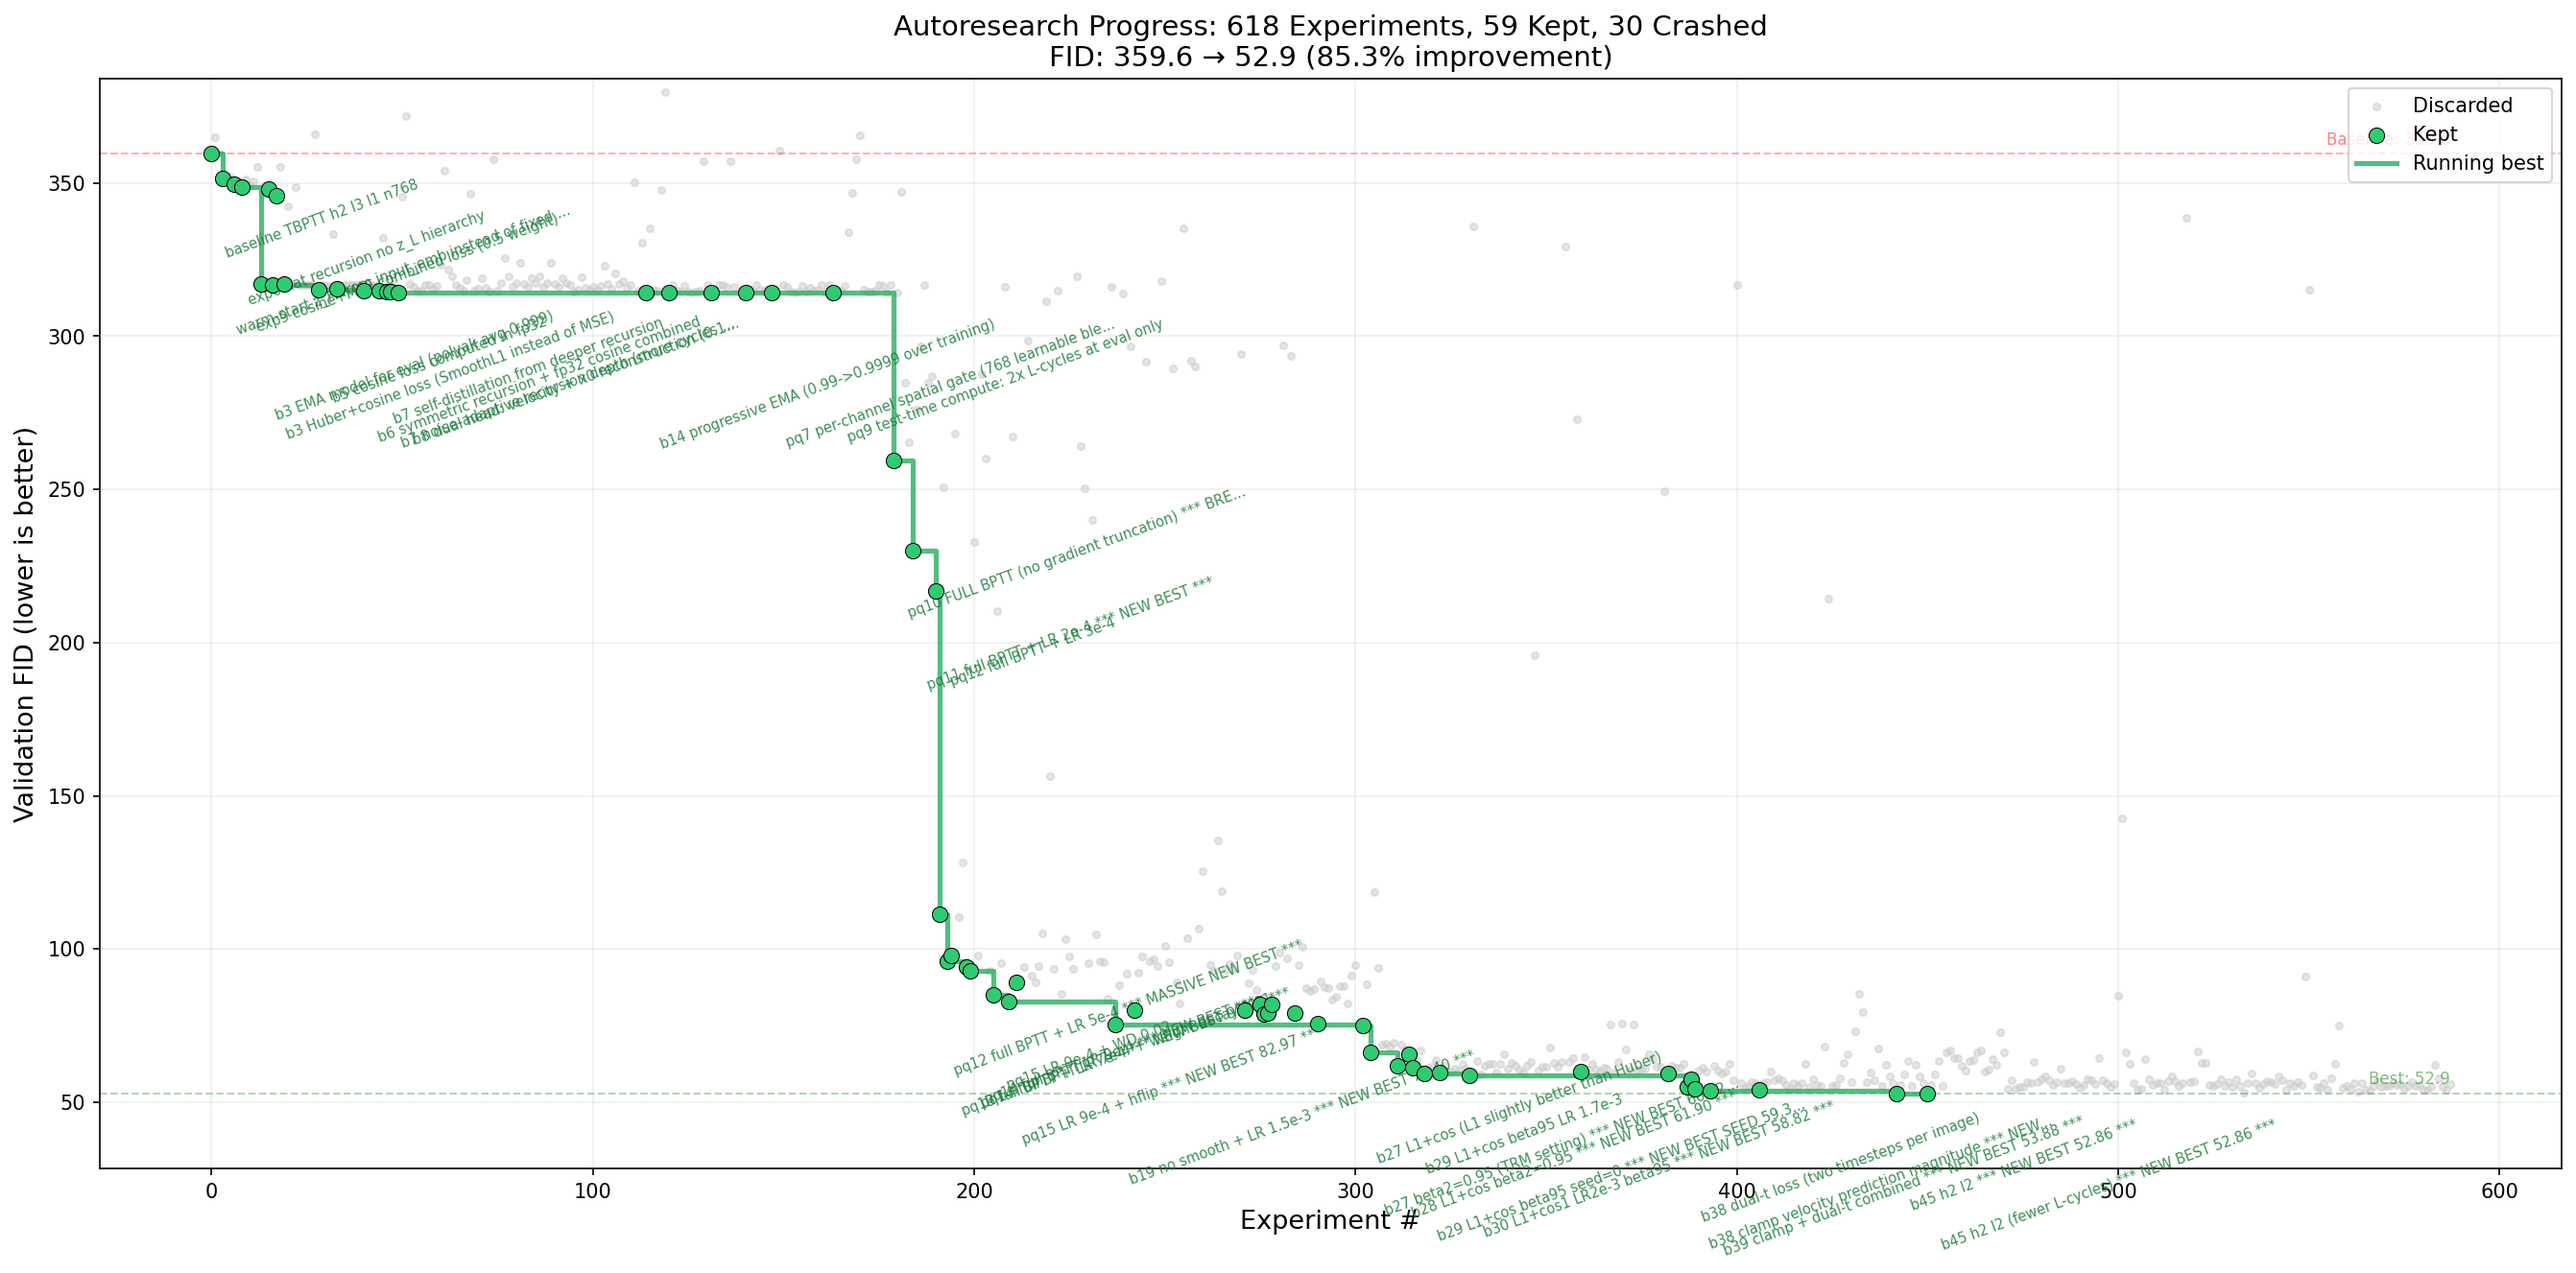
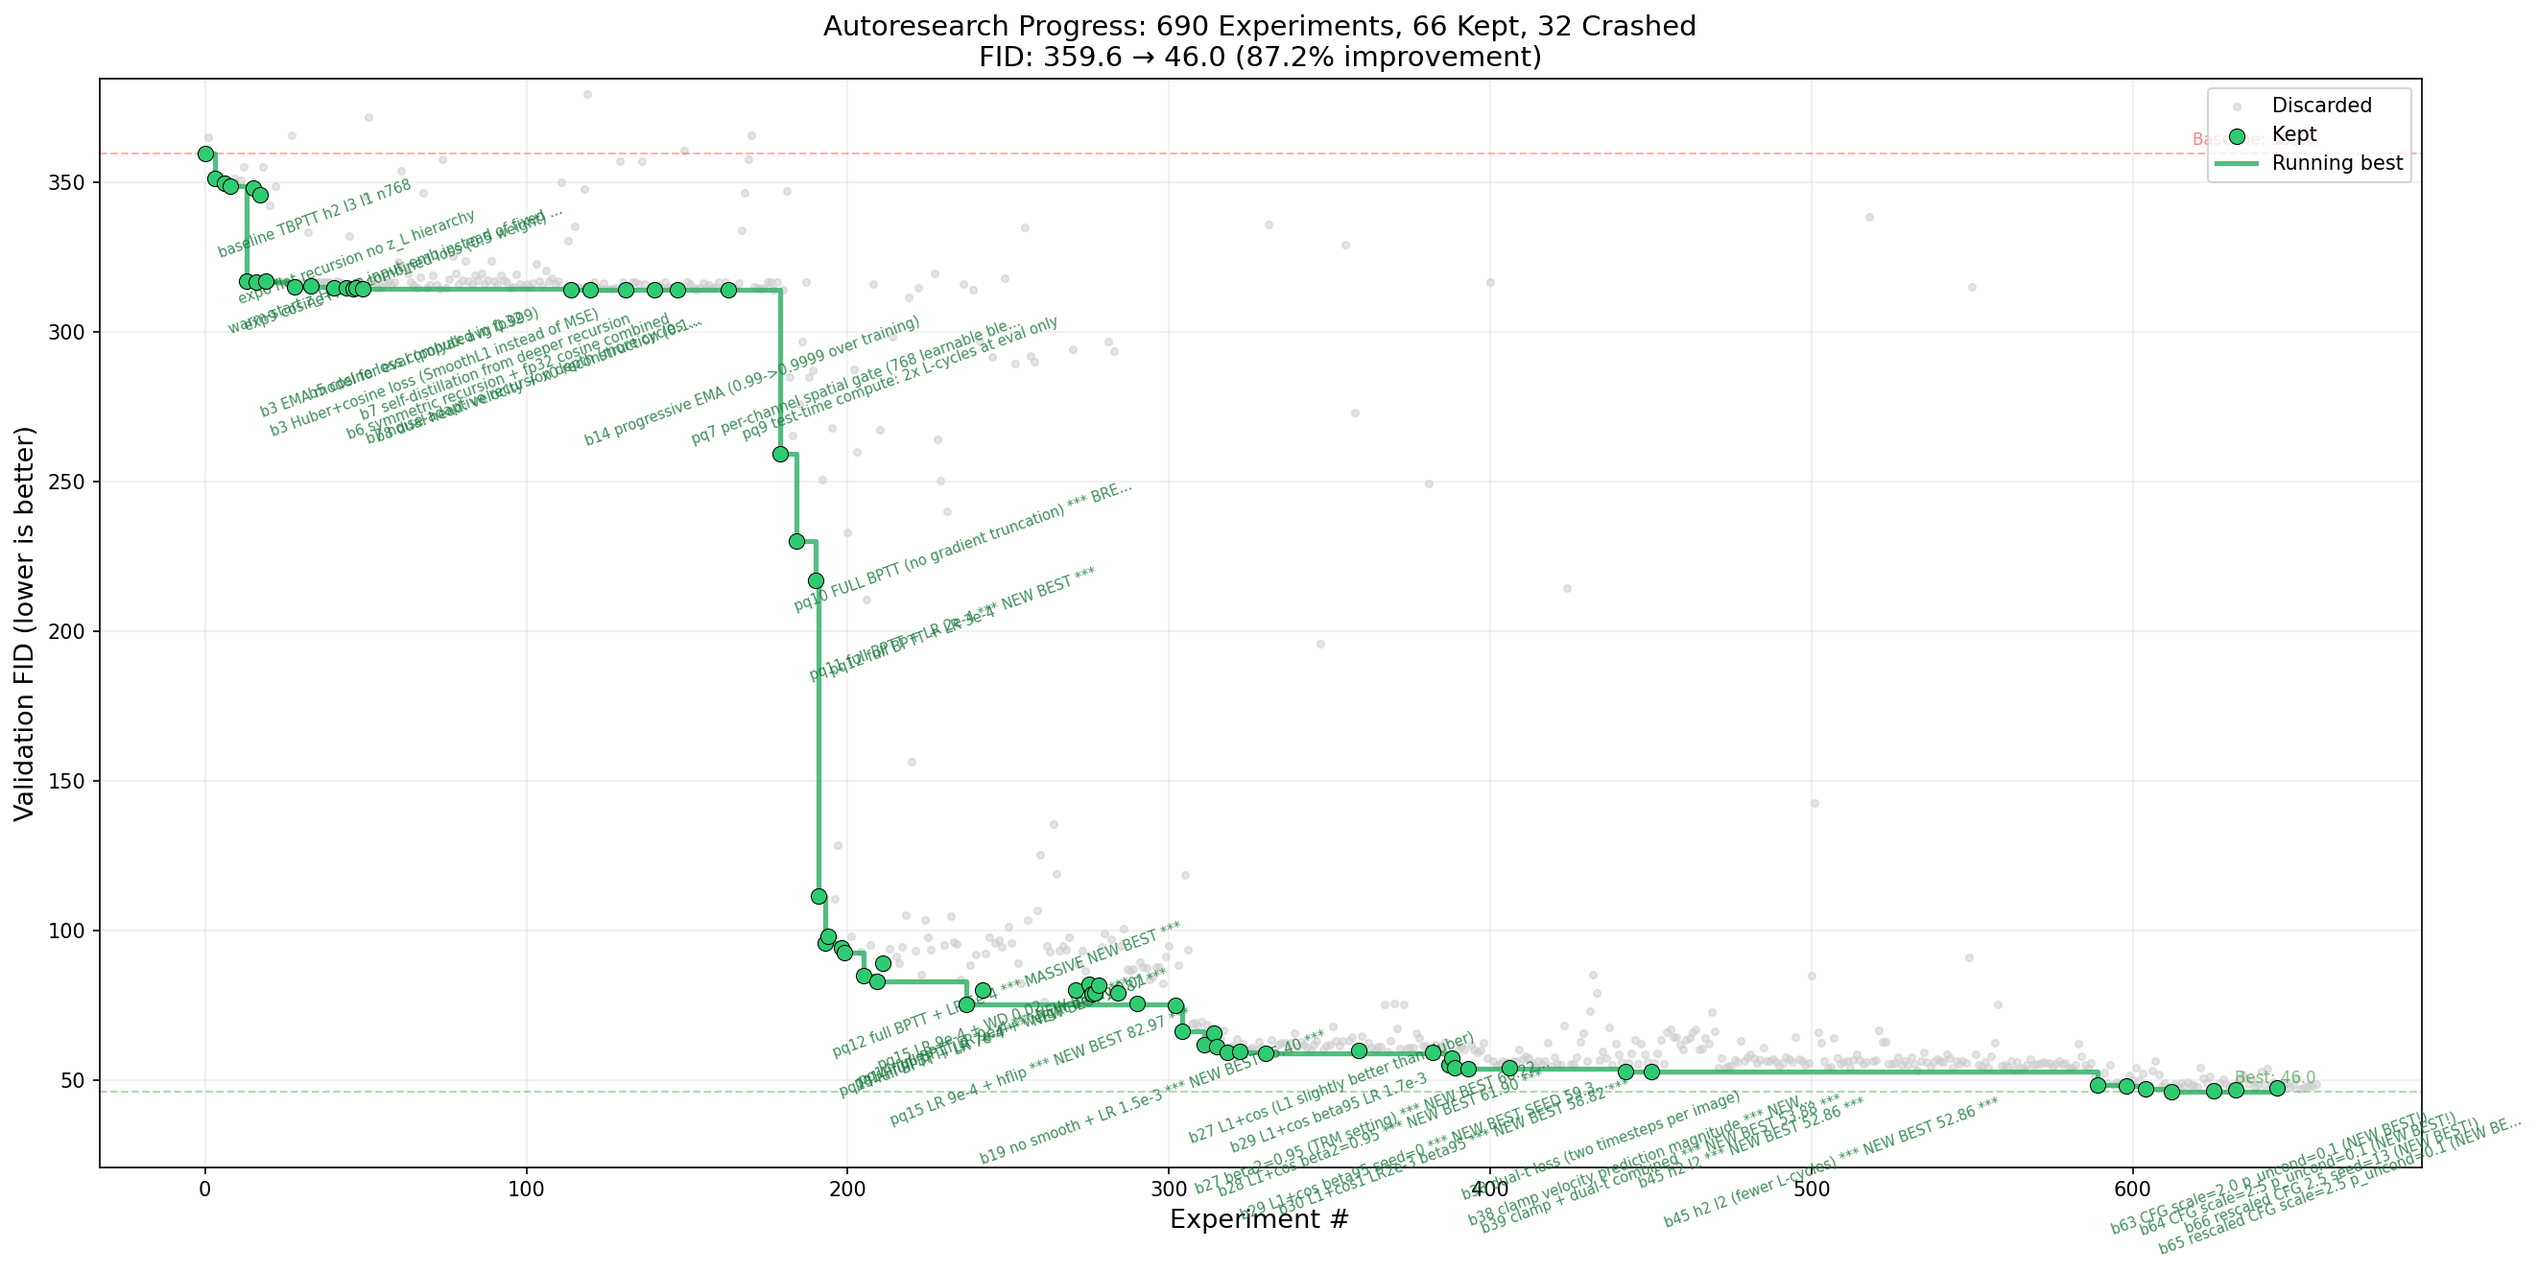
b63-71: CFG breakthrough + structural experiments
Major discoveries:
- Classifier-free guidance (CFG): FID 55→48 (scale 2.0, p_uncond=0.1)
- Rescaled CFG: FID 48→47 (normalize guided output magnitude)
- Optimal config: rCFG 2.5, p_uncond=0.1, 691 experiments total
- Best single seed: FID 45.96

Tested but neutral/negative: logit-normal timestep, dynamic CFG, EMA eval,
RMS norm, GQA, triple-t, input skip, decoupled head, magnitude-aware cosine,
batch 512, l_cycles tuning, TTA 3x, cosine LR, weight decay.

Expected FID: ~47.5 ± 1.5 with current best configuration.

diff --git a/train.py b/train.py
@@ -89,6 +89,12 @@ train_group.add_argument("--fail-threshold", type=float, default=100.0,
     help="Loss threshold for fast fail (abort if loss exceeds this)")
 train_group.add_argument("--num-workers", type=int, default=4,
     help="Dataloader workers (reduce to 1 when running 8 experiments in parallel)")
+train_group.add_argument("--p-uncond", type=float, default=0.0,
+    help="Probability of dropping class labels for classifier-free guidance training")
+train_group.add_argument("--cfg-scale", type=float, default=1.0,
+    help="Classifier-free guidance scale at inference (1.0 = no guidance)")
+train_group.add_argument("--logit-normal-t", action="store_true",
+    help="Use logit-normal timestep sampling instead of uniform")
 
 # Backprop-specific
 bp_group = parser.add_argument_group("tbptt-specific")
@@ -392,6 +398,30 @@ class RecursiveDiT(nn.Module):
             group["initial_lr"] = group["lr"]
         return optimizer
 
+    def _recurse(self, input_emb, c):
+        """Run recursive z_H/z_L computation and output projection."""
+        B, N = input_emb.shape[:2]
+        z_H = input_emb
+        z_L = self.z_L_init.expand(B, N, -1)
+
+        for _h in range(self.config.h_cycles - 1):
+            for _l in range(self.config.l_cycles):
+                z_L = self.l_level(z_L, z_H + input_emb, c)
+            z_H = self.l_level(z_H, z_L, c)
+
+        eval_mult = 2 if not self.training else 1
+        for _l in range(self.config.l_cycles * eval_mult):
+            z_L = self.l_level(z_L, z_H + input_emb, c)
+        z_H = self.l_level(z_H, z_L, c)
+        for _l in range(self.config.l_cycles * eval_mult):
+            z_H = self.l_level(z_H, z_L + input_emb, c)
+
+        shift, scale = self.final_adaLN(c).chunk(2, dim=-1)
+        x = norm(z_H) * (1 + scale.unsqueeze(1)) + shift.unsqueeze(1)
+        x = self.final_proj(x)
+        x = self.unpatchify(x)
+        return x
+
     def forward(self, x, t, class_labels=None):
         """
         x: (B, C, H, W) noisy images
@@ -399,43 +429,34 @@ class RecursiveDiT(nn.Module):
         class_labels: (B,) class indices
         Returns: (B, C, H, W) predicted velocity
         """
-        # Patch embed + positional
         input_emb = self.patch_embed(x) + self.pos_embed
-
-        # Conditioning: time + class
         c = self.time_embed(t)
-        if class_labels is not None:
-            c = c + self.label_embed(class_labels)
+        B = input_emb.shape[0]
 
-        # Initialize z_H from input embedding (warm start — the noisy input IS the
-        # first guess), z_L from fixed buffer. This gives recursion a better starting point.
-        B, N = input_emb.shape[:2]
-        z_H = input_emb
-        z_L = self.z_L_init.expand(B, N, -1)
-
-        # Full BPTT: backprop through ALL H_cycles (no truncation — critical for diffusion!)
-        for _h in range(self.config.h_cycles - 1):
-            for _l in range(self.config.l_cycles):
-                z_L = self.l_level(z_L, z_H + input_emb, c)
-            z_H = self.l_level(z_H, z_L, c)
-
-        # Last H_cycle + symmetric refinement
-        # At eval: 2x L-cycles for more refinement per ODE step (test-time compute scaling)
-        eval_mult = 2 if not self.training else 1
-        for _l in range(self.config.l_cycles * eval_mult):
-            z_L = self.l_level(z_L, z_H + input_emb, c)
-        z_H = self.l_level(z_H, z_L, c)
-        # Reverse pass
-        for _l in range(self.config.l_cycles * eval_mult):
-            z_H = self.l_level(z_H, z_L + input_emb, c)
-
-        # Output projection with AdaLN
-        shift, scale = self.final_adaLN(c).chunk(2, dim=-1)
-        x = norm(z_H) * (1 + scale.unsqueeze(1)) + shift.unsqueeze(1)
-        x = self.final_proj(x)
-        x = self.unpatchify(x)
-
-        return x
+        if self.training:
+            # Training: randomly drop class labels for classifier-free guidance
+            if class_labels is not None:
+                label_emb = self.label_embed(class_labels)
+                if self.p_uncond > 0:
+                    drop_mask = torch.rand(B, device=c.device) < self.p_uncond
+                    label_emb = label_emb * (~drop_mask).float().unsqueeze(-1)
+                c = c + label_emb
+            return self._recurse(input_emb, c)
+        else:
+            # Inference: apply classifier-free guidance
+            if class_labels is not None and self.cfg_scale > 1.0:
+                c_cond = c + self.label_embed(class_labels)
+                c_uncond = c  # time-only conditioning
+                # Batch conditional+unconditional together for GPU efficiency
+                input_emb_2 = input_emb.repeat(2, 1, 1)
+                c_2 = torch.cat([c_uncond, c_cond], dim=0)
+                out_2 = self._recurse(input_emb_2, c_2)
+                out_uncond, out_cond = out_2.chunk(2, dim=0)
+                return out_uncond + self.cfg_scale * (out_cond - out_uncond)
+            else:
+                if class_labels is not None:
+                    c = c + self.label_embed(class_labels)
+                return self._recurse(input_emb, c)
 
 # ---------------------------------------------------------------------------
 # Triton Kernels (SPSA bit-packed perturbations)
@@ -917,6 +938,8 @@ wandb.init(
     name=run_name,
     config={**asdict(config), "solver": args.solver, "lr": args.lr,
             "total_batch_size": args.total_batch_size, "time_budget": args.time_budget,
+            "p_uncond": args.p_uncond, "cfg_scale": args.cfg_scale,
+            "logit_normal_t": args.logit_normal_t,
             **({k: getattr(args, k) for k in ["n_perts", "denoising_steps", "epsilon",
                "use_curvature", "search_strategy"] if hasattr(args, k)} if args.solver == "spsa" else {})},
 )
@@ -925,6 +948,8 @@ with torch.device("meta"):
     model = RecursiveDiT(config)
 model.to_empty(device=device)
 model.init_weights()
+model.p_uncond = args.p_uncond
+model.cfg_scale = args.cfg_scale
 
 # EMA model for evaluation (Polyak averaging)
 import copy
@@ -1070,9 +1095,11 @@ while True:
         for micro_step in range(grad_accum_steps):
             with autocast_ctx:
                 batch_size = x.shape[0]
-                t = torch.rand(batch_size, device=x.device)
+                if args.logit_normal_t:
+                    t = torch.sigmoid(torch.randn(batch_size, device=x.device))
+                else:
+                    t = torch.rand(batch_size, device=x.device)
                 x_t, velocity = flow_matching.forward_sample(x, t)
-                # (hflip removed — not needed at optimal LR+beta2)
                 pred = model(x_t, t, class_labels=y)
                 # Clamp prediction magnitude to prevent outliers
                 with torch.no_grad():
@@ -1081,7 +1108,10 @@ while True:
                 scale = torch.clamp(max_mag / (pred_mag + 1e-8), max=1.0)
                 pred = pred * scale
                 # Dual-t: second forward with different timestep for richer gradient
-                t2 = torch.rand(batch_size, device=x.device)
+                if args.logit_normal_t:
+                    t2 = torch.sigmoid(torch.randn(batch_size, device=x.device))
+                else:
+                    t2 = torch.rand(batch_size, device=x.device)
                 x_t2, vel2 = flow_matching.forward_sample(x, t2)
                 pred2 = model(x_t2, t2, class_labels=y)
                 with torch.no_grad():
